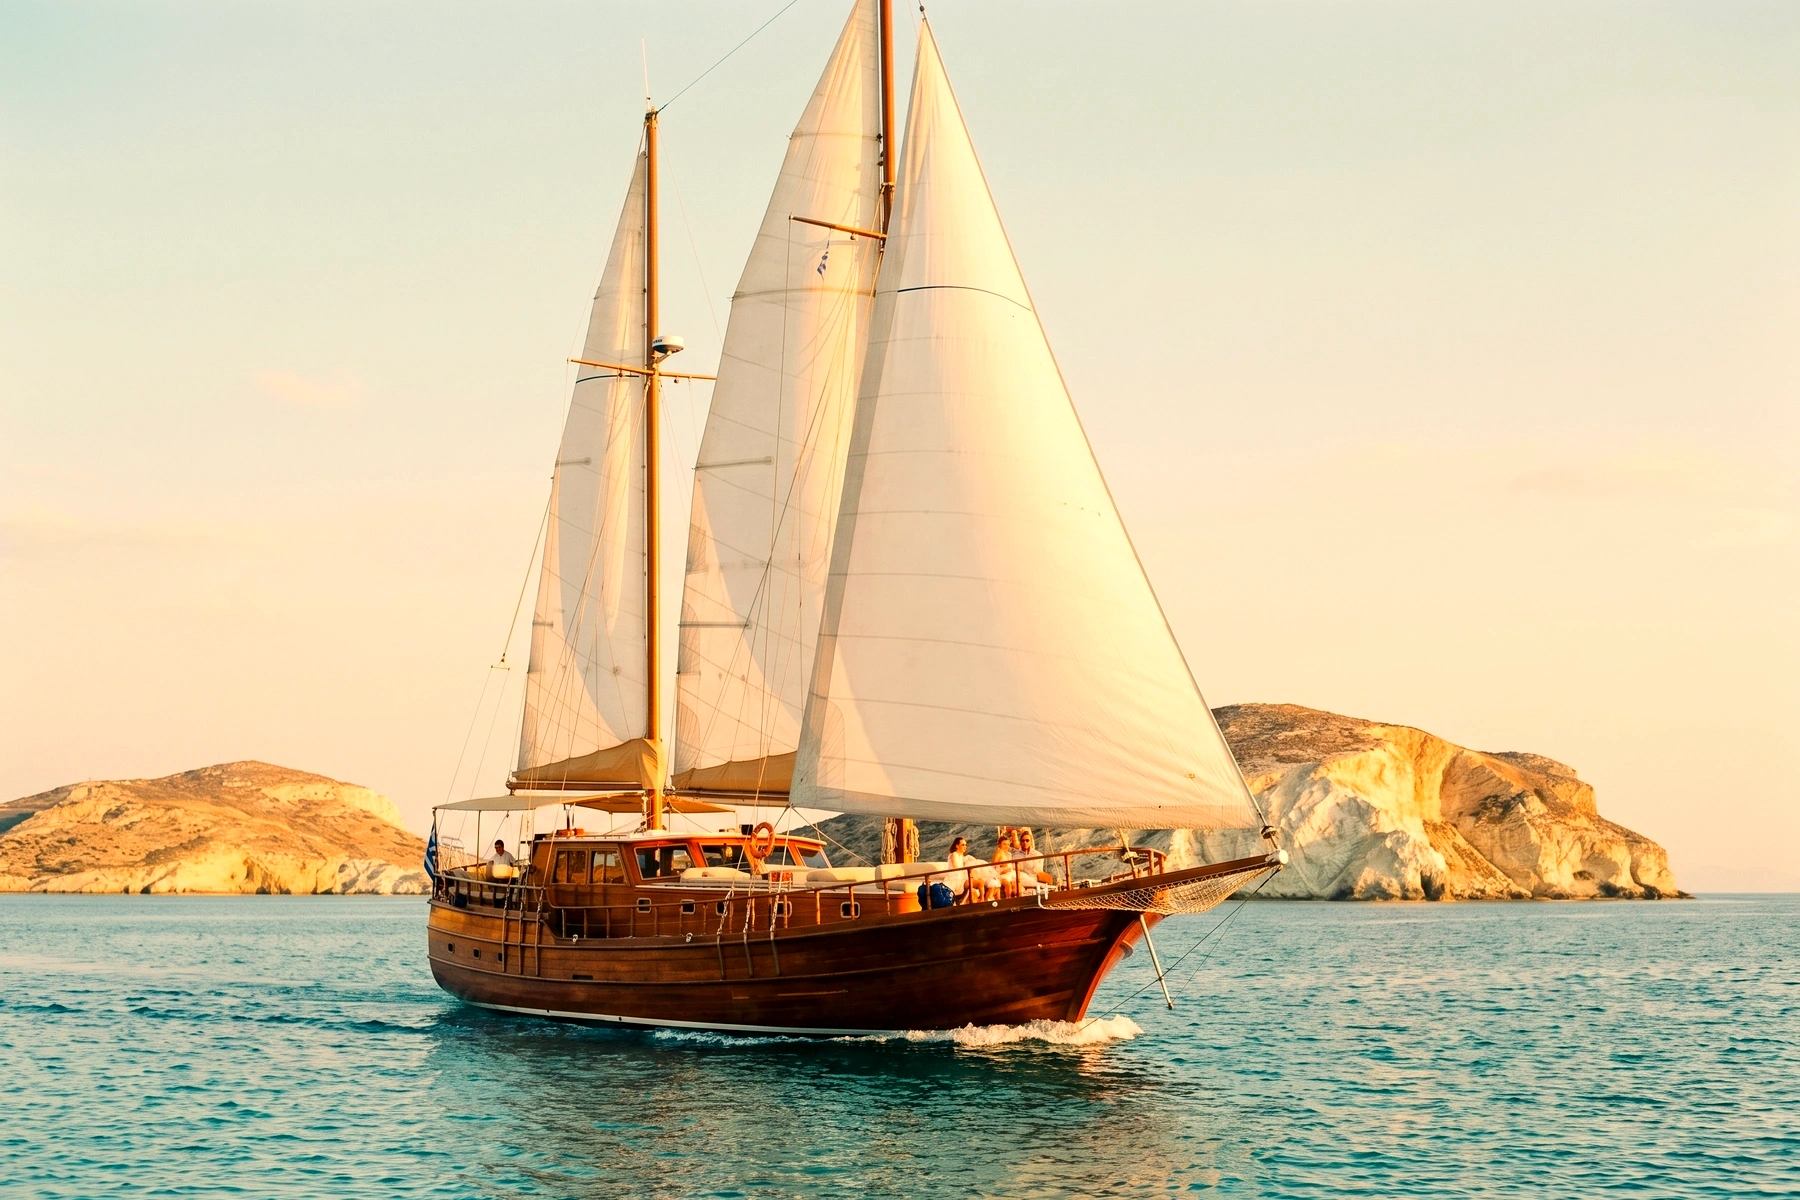
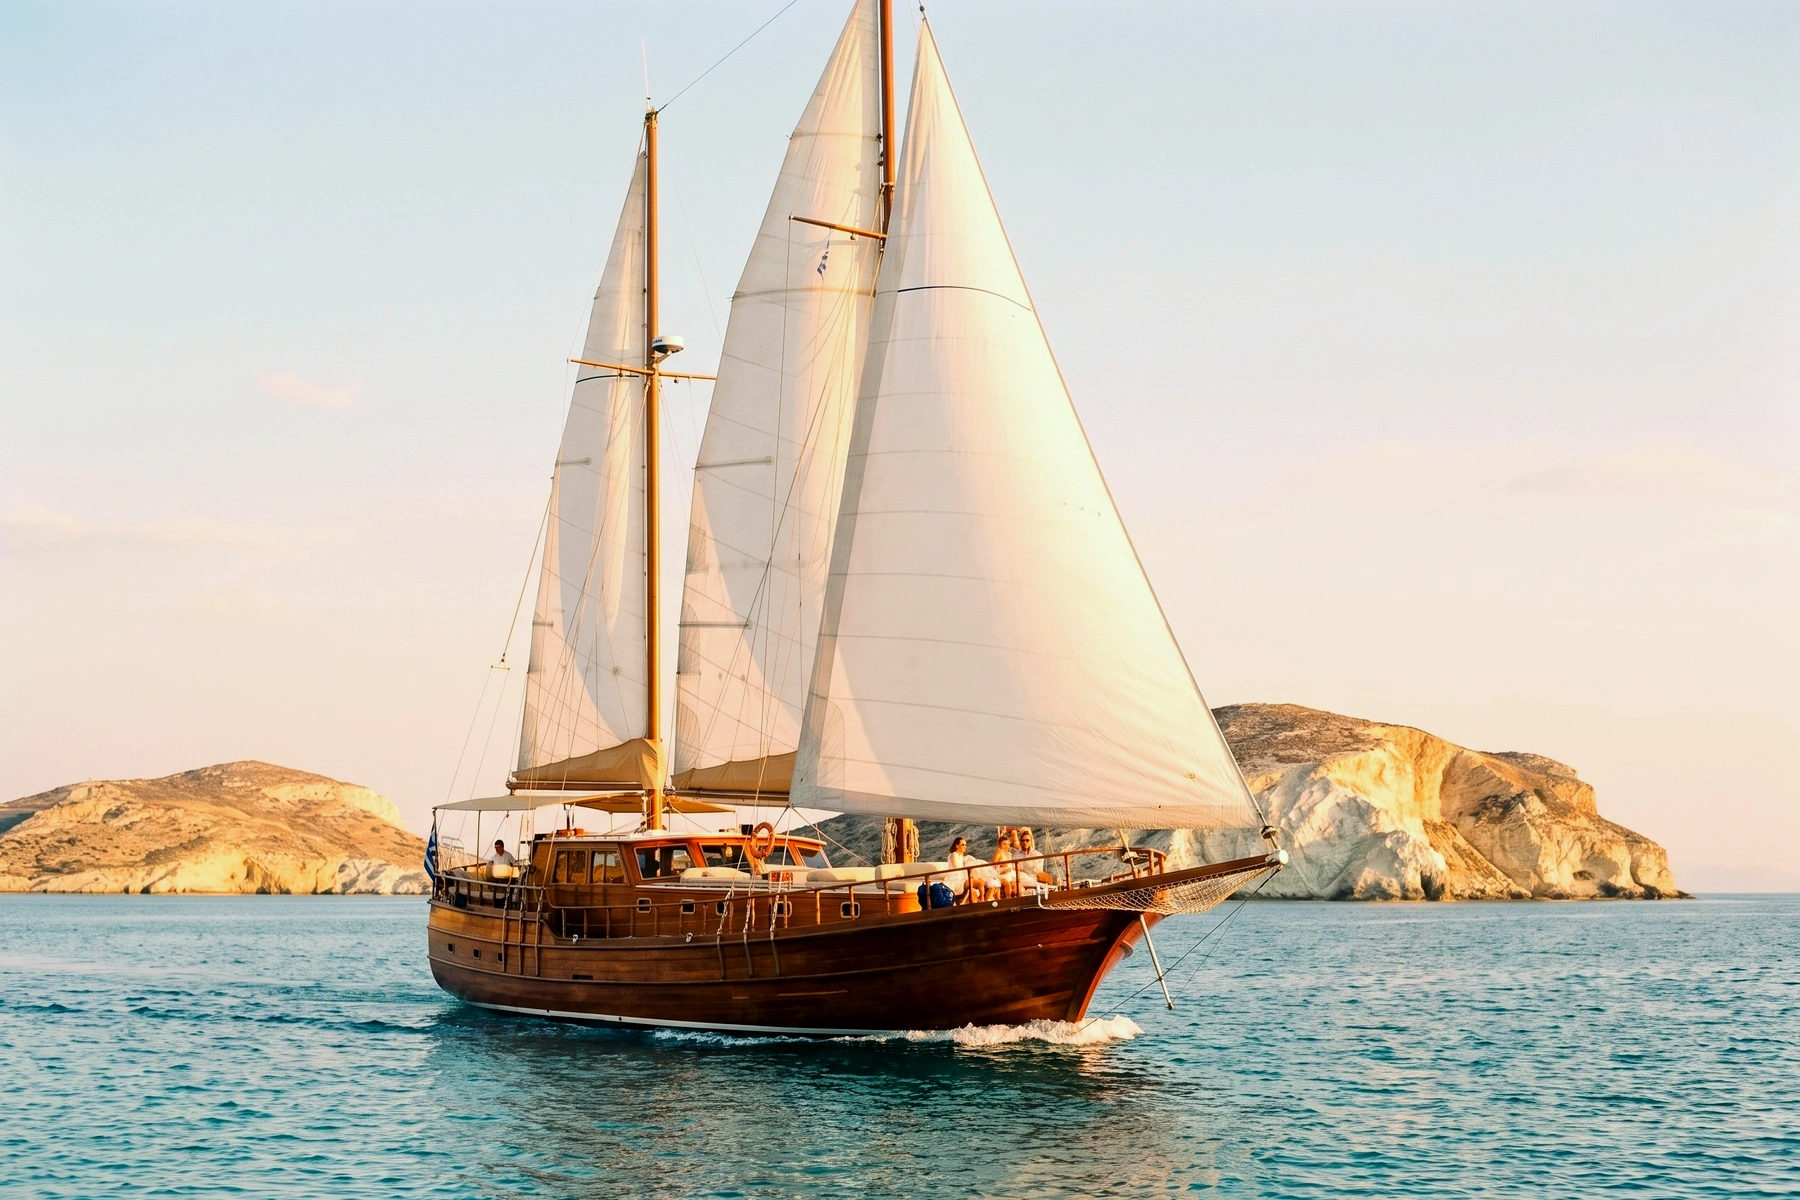
Grèce : Naxos, mules d'Hydra entières, goélette moins orangée (#94)

diff --git a/src/content/destinations/grece.tsx b/src/content/destinations/grece.tsx
@@ -104,7 +104,7 @@ export const destination: Destination = {
         },
         {
           src: "/destination/grece/split-2.webp",
-          alt: "Mules d'Hydra sellées de tapis colorés sur le quai pavé",
+          alt: "Mule d'Hydra sellée d'un tapis coloré sur le quai pavé, lumière du soir",
         },
       ],
     },
@@ -130,11 +130,11 @@ export const destination: Destination = {
       duo: {
         left: {
           src: "/destination/grece/cyclades-voile.webp",
-          alt: "Goélette toutes voiles dehors dans les Cyclades au petit matin",
+          alt: "Goélette toutes voiles dehors entre deux îles des Cyclades",
         },
         right: {
           src: "/destination/grece/cyclades-crique.webp",
-          alt: "Crique turquoise aux roches blanches des Cyclades, voiliers au mouillage",
+          alt: "Chora de Naxos et la digue de la Portara entre deux eaux turquoise",
         },
       },
       text: {

diff --git a/references/destination/grece/SOURCES.md b/references/destination/grece/SOURCES.md
@@ -63,3 +63,6 @@ Each generated image in `public/destination/grece/` was produced by feeding the 
 | `xp-delphes.webp` (v2) | `xp-delphes-ref2.jpg` (Petit Futé, non libre, non publiée) | Delphi, Tholos, Schatzhaus Massilia 2015-09.jpg. **Vraie photo** de la même vue, recadrage et étalonnage local ; ciel et lumière retouchés par IA (Gemini) | https://commons.wikimedia.org/wiki/File:Delphi,_Tholos,_Schatzhaus_Massilia_2015-09.jpg | CC BY-SA 4.0, HerrAdams (crédit obligatoire) |
 | `xp-vigneron-santorin.webp` (v2) | `xp-vigneron-santorin-ref2.jpg` (greekgastronomyguide.gr, non libre, non publiée) | Chapel St Marina near Megalochori - Santorini - Greece - 04.jpg. **Vraie photo** de la même vue, recadrage et étalonnage local ; ciel et lumière retouchés par IA (Gemini) | https://commons.wikimedia.org/wiki/File:Chapel_St_Marina_near_Megalochori_-_Santorini_-_Greece_-_04.jpg | CC BY-SA 3.0, Norbert Nagel (crédit obligatoire) |
 | `archives/*-v1.webp` | | Versions précédentes remplacées à la demande de Thea | | |
+| `cyclades-crique.webp` (v3) | `cyclades-crique-ref2.jpg` (Shutterstock via urlaubspiraten.de, non libre, non publiée) | 1039 View of Naxos Town from Palatia Photo by Giles Laurent.jpg. **Vraie photo**, sans IA : recadrage et étalonnage local | https://commons.wikimedia.org/wiki/File:1039_View_of_Naxos_Town_from_Palatia_Photo_by_Giles_Laurent.jpg | CC BY-SA 4.0, Giles Laurent (crédit obligatoire) |
+| `split-2.webp` (v3) |  | Donkeys on Hydra island Greece (43058099460).jpg. **Vraie photo**, sans IA : recadrage et étalonnage local | https://commons.wikimedia.org/wiki/File:Donkeys_on_Hydra_island_Greece_(43058099460).jpg | CC BY 2.0, dronepicr (crédit obligatoire) |
+| `cyclades-voile.webp` (v3) | `hero-3-ia.png` | Même image IA, étalonnage moins orangé à la demande de Thea | | Image IA, aucun crédit |
